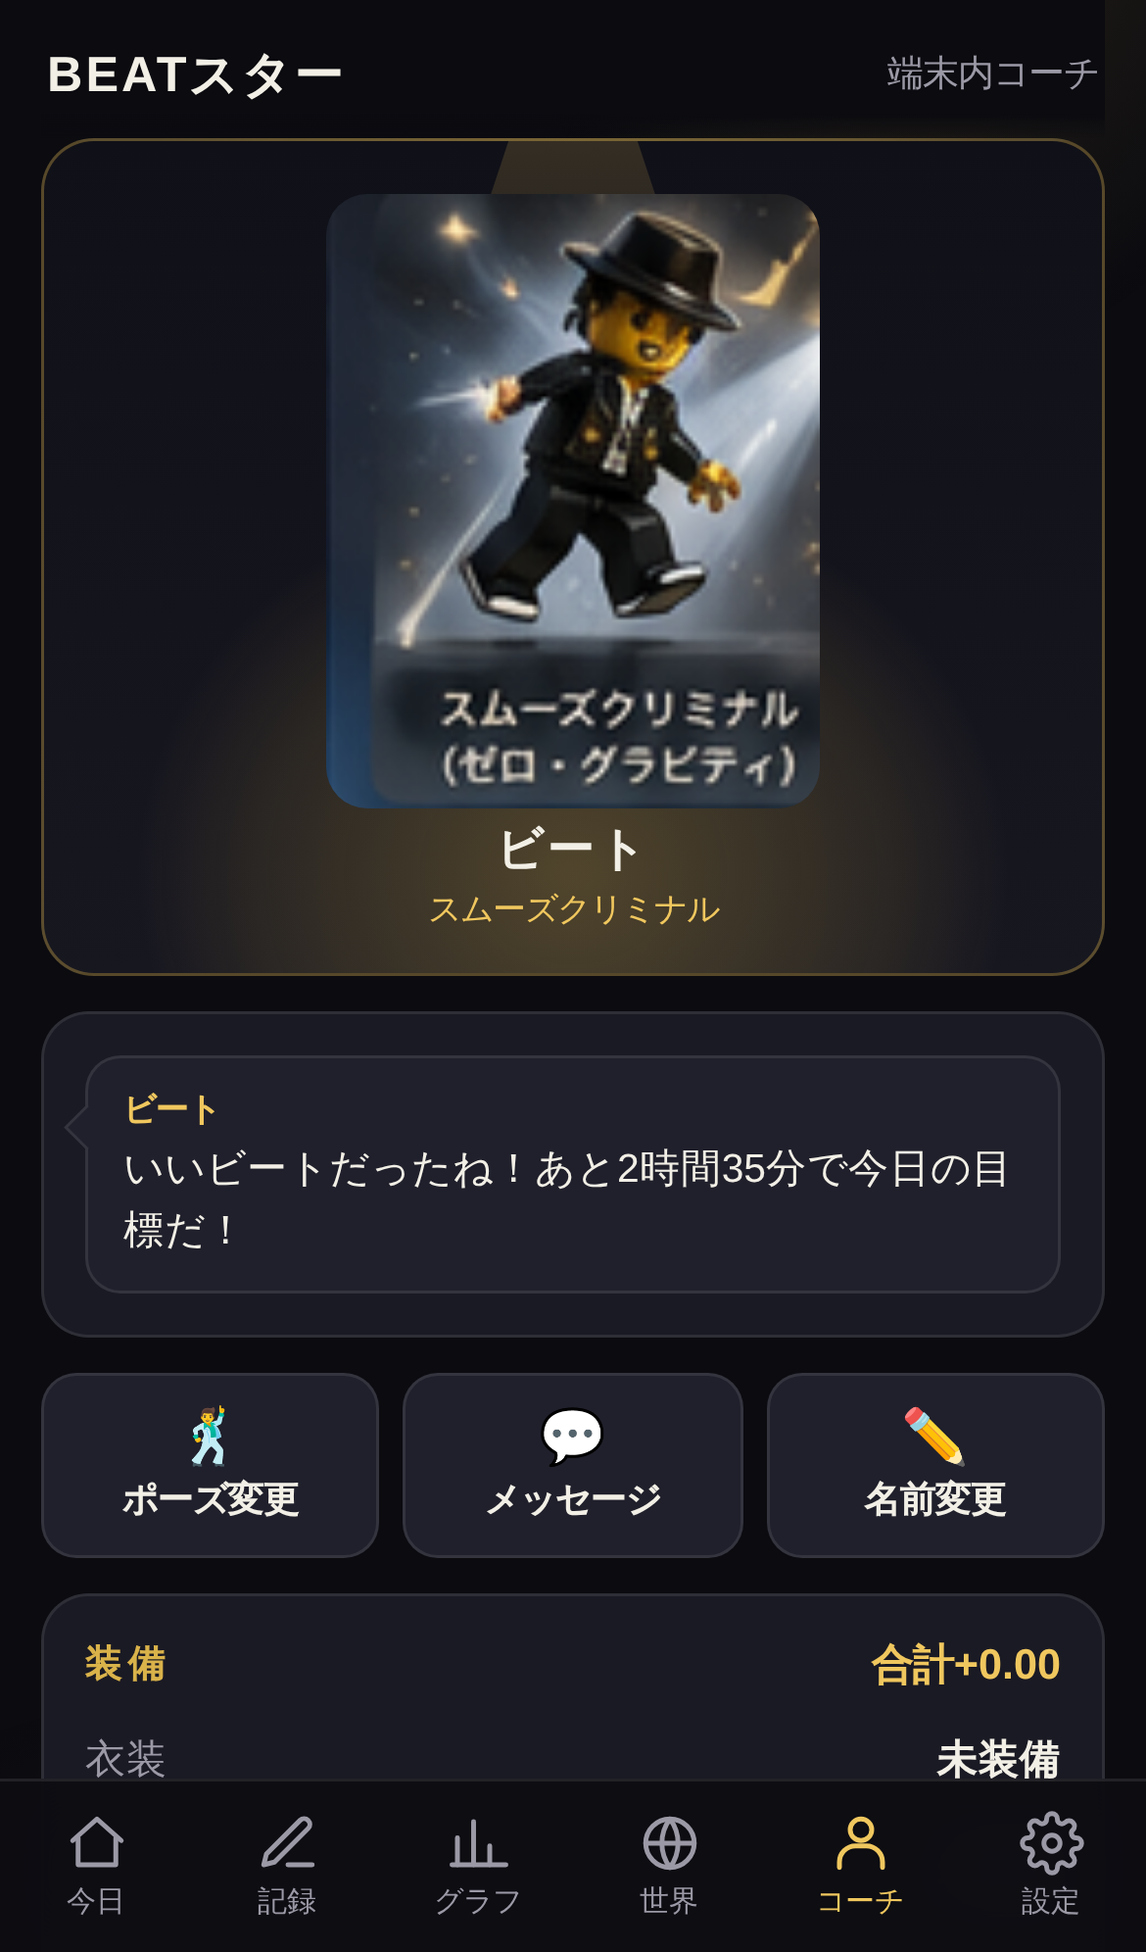
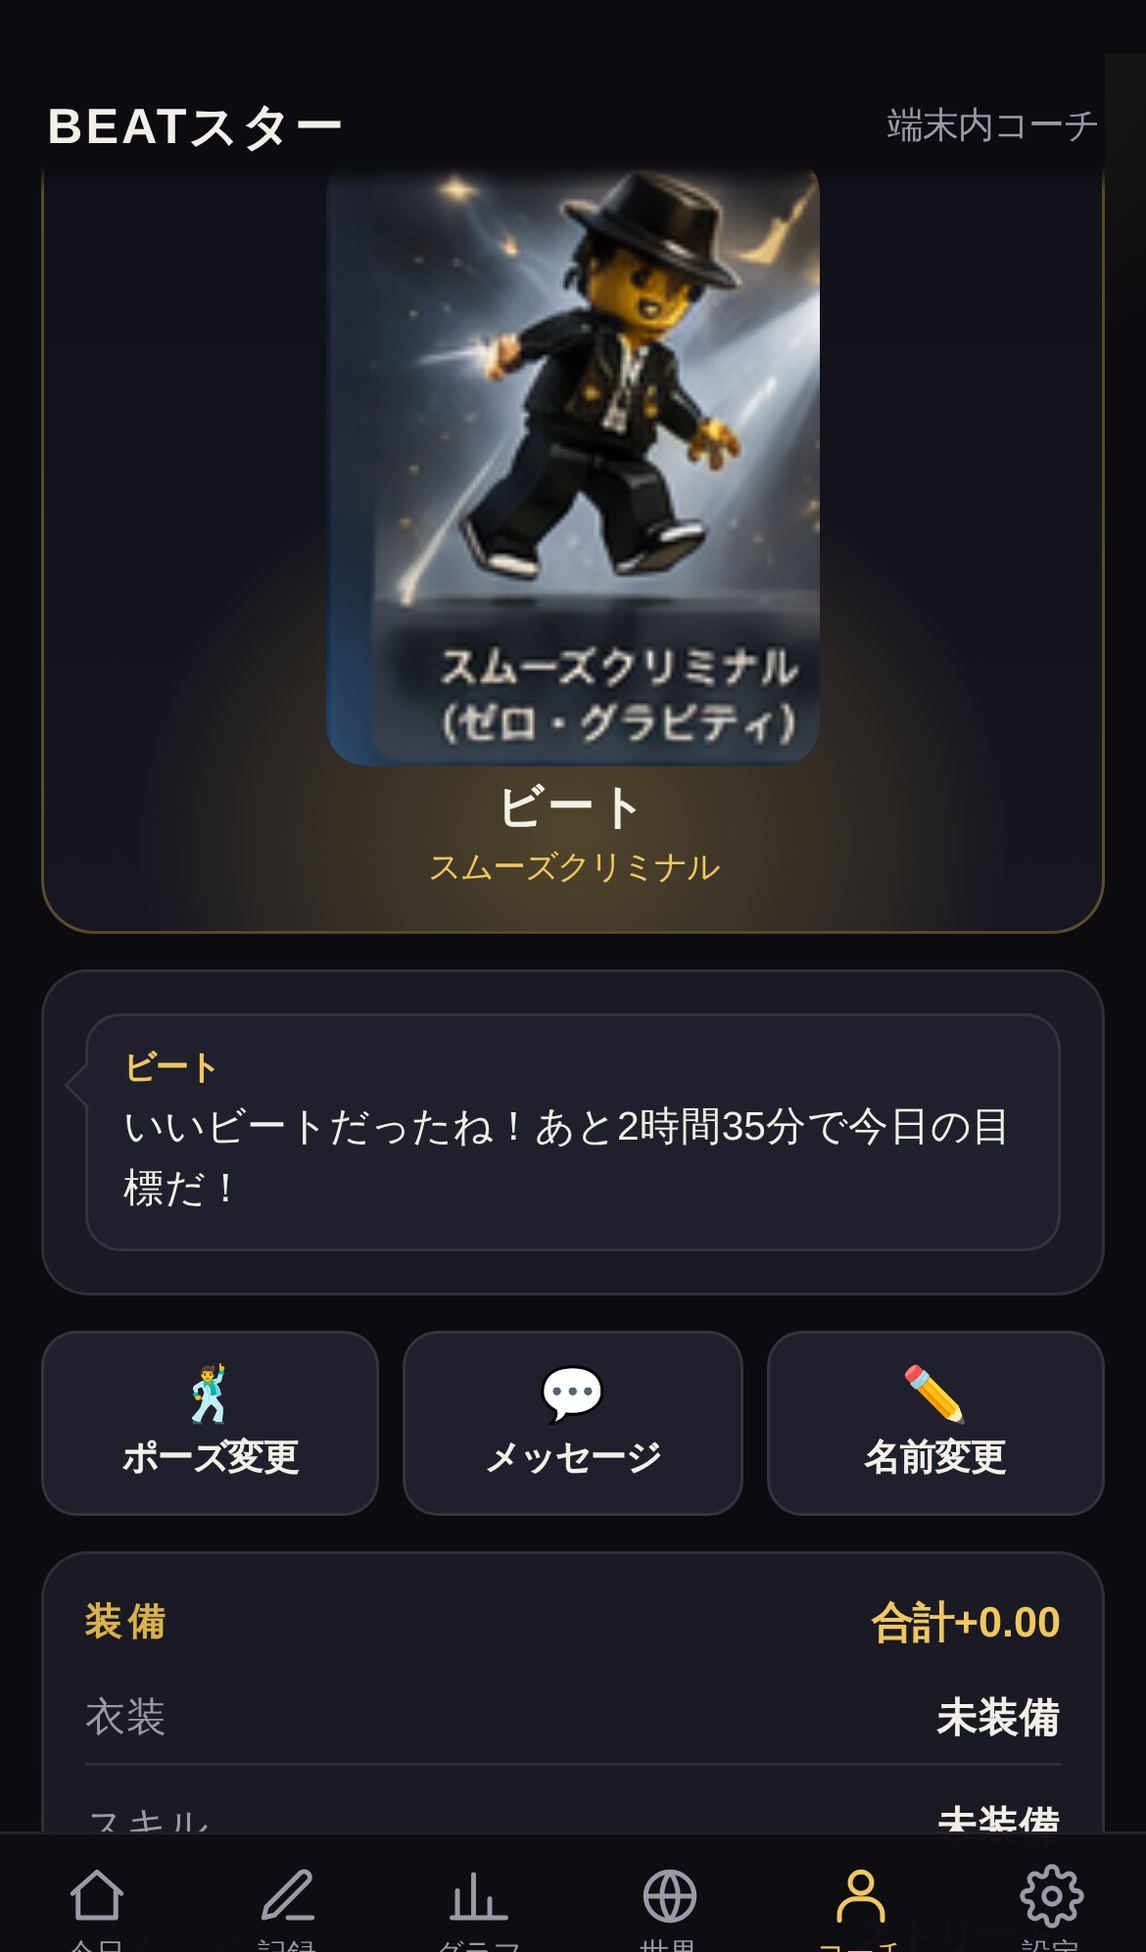
APP-461: コーチのパネルが画面外に開く不具合を修正し、不具合報告と更新バッジを追加
## 不具合: コーチの「ポーズ変更」「メッセージ」が反応しないように見える

親から「メッセージのところが何の入力もできない」「ポーズ変更ボタンも受け
付けない」との報告。公開版(main)で再現し、原因を実測で特定した。

  ポーズ変更ボタン   y = 467〜530  (画面の高さ 664px)
  押すと開くパネル   y = 834〜1379 ← 画面外

ボタンとイベントは正常に動いていた。パネルがボタンより下、装備カードと
ショップカードのさらに後ろに置かれているため、開いても画面の170px下で開き、
何も変わらないように見えていた。メッセージの入力欄も同じ理由で画面外にあり、
触れなかった。

対策として、パネルを開いたら scrollIntoView で画面内へ送る。
prefers-reduced-motion のときは即座に移動する。

  修正後: ポーズパネル y=29 / 入力欄 y=377 (いずれも画面内)

## 追加: 不具合を報告する(設定 → 🐞)

外部通信ゼロのため、アプリからは送信しない。状況が分かる定型文を組み立てて
クリップボードへコピーし、LINEやGitHubへ貼れるようにする。

自動で入る情報: アプリ版・発生日時・画面幅・ホーム画面から起動したか・端末・
記録の件数・保存容量。**学習内容と振り返りの本文は含めない**ことを画面にも
報告文にも明記した。

## 追加: アップデートのお知らせバッジ

新しい版が届くと、下部ナビの「設定」タブとサポート・ヘルプの項目に赤い点が
付く。更新すると消える。

ホーム画面アイコン自体へのバッジ(navigator.setAppBadge)は、使える環境でだけ
静かに付ける。iOSでは通知の許可が必要なため、こちらから許可は求めない。
許可が無い環境では何も起きない(try/catchで握りつぶす)。

## 試験

受入 175件 → 191件、単体 69件は変更なし。いずれも全合格。

新規16件には、パネルが画面内に入ること、ポーズと入力欄が実際にタップできる
こと(elementFromPointによる当たり判定)、報告文に版数・端末が自動で入ること、
本文を含めない旨が明記されること、赤い点の表示と消去を含む。

ver.4.1.1 → 4.1.2 (sw.js の CACHE も同時に更新)

Claude-Session: https://claude.ai/code/session_01UmQKhNPcQEL1E4Hkts66e5

diff --git a/js/app.js b/js/app.js
@@ -5,7 +5,7 @@
 
   /* アプリのバージョン。更新時はここと sw.js の CACHE を一緒に上げる。
    * 保存キー(KEY)は絶対に変えないこと(過去の記録が読めなくなるため)。 */
-  var APP_VERSION = '4.1.1';
+  var APP_VERSION = '4.1.2';
   /* リリース表示用(画面右上)。更新のたびに日付を上げる。
    * モデル名は「未記録」固定とする(実行時のモデル識別子を断定してリポジトリの
    * 成果物に書き出さない方針のため。推測での記載はしない)。 */
@@ -2036,15 +2036,31 @@
     renderBoostCard();
   }
 
+  /* 開いたパネルを画面内に送る(APP-461)。
+   * パネルはボタンより下、装備・ショップカードのさらに後ろに置かれているため、
+   * 画面の外で開いていた。ボタンを押しても何も変わらないように見え、
+   * 「ボタンが反応しない」「メッセージが入力できない」という不具合になっていた。 */
+  function revealPanel(el) {
+    if (!el || el.style.display === 'none') return;
+    var reduce = window.matchMedia && window.matchMedia('(prefers-reduced-motion: reduce)').matches;
+    try {
+      el.scrollIntoView({ behavior: reduce ? 'auto' : 'smooth', block: 'start' });
+    } catch (e) {
+      el.scrollIntoView(true);   // 古いブラウザ向け
+    }
+  }
+
   $('btn-pose').addEventListener('click', function () {
     var p = $('pose-panel');
     p.style.display = p.style.display === 'none' ? '' : 'none';
     $('chat-panel').style.display = 'none';
+    revealPanel(p);
   });
   $('btn-chat').addEventListener('click', function () {
     var p = $('chat-panel');
     p.style.display = p.style.display === 'none' ? '' : 'none';
     $('pose-panel').style.display = 'none';
+    revealPanel(p);
     if (p.style.display !== 'none') {
       renderChatLog();
       renderQuickAsks();
@@ -2302,6 +2318,7 @@
     if (panel === 'ai') return openAIPanel();
     if (panel === 'axis') return openAxisModal();
     if (panel === 'data') return openDataPanel();
+    if (panel === 'report') return openReportPanel();
     if (panel === 'about') return openAboutPanel();
   }
 
@@ -2636,6 +2653,97 @@
     };
   }
 
+  /* ================= 不具合の報告(APP-461) =================
+   * 外部通信ゼロのため、アプリから送信はしない。
+   * 状況が分かる定型文を組み立ててコピーし、親がLINEやGitHubへ貼れるようにする。 */
+
+  function buildReportText(userText) {
+    var lines = [];
+    lines.push('【IBUKI STUDY BEAT 不具合レポート】');
+    lines.push('');
+    lines.push('■ 何が起きたか');
+    lines.push(userText && userText.trim() ? userText.trim() : '(未記入)');
+    lines.push('');
+    lines.push('■ 環境(自動で入ります)');
+    lines.push('アプリ版: ver.' + APP_VERSION + ' (' + BUILD_DATE + ')');
+    lines.push('発生日時: ' + new Date().toLocaleString('ja-JP'));
+    lines.push('画面幅: ' + window.innerWidth + ' x ' + window.innerHeight);
+    lines.push('ホーム画面から起動: ' +
+      (window.matchMedia && window.matchMedia('(display-mode: standalone)').matches ? 'はい' : 'いいえ'));
+    lines.push('端末: ' + (navigator.userAgent || '不明').slice(0, 160));
+    lines.push('オフライン対応: ' + ('serviceWorker' in navigator ? '有効' : '無効'));
+    lines.push('');
+    lines.push('■ データの規模(中身は含みません)');
+    try {
+      lines.push('学習記録: ' + (state.records || []).filter(function (r) { return !r.deletedAt; }).length + '件');
+      lines.push('ニュース: ' + (state.news || []).length + '件');
+      lines.push('受験イベント: ' + (state.events || []).length + '件');
+      lines.push('科目: ' + (state.settings.subjects || []).length + '件');
+      lines.push('保存容量: 約' + Math.round((localStorage.getItem(KEY) || '').length / 1024) + ' KB');
+    } catch (e) {
+      lines.push('(データの読み取りに失敗しました)');
+    }
+    lines.push('');
+    lines.push('※ 学習内容・振り返りの本文は含めていません。');
+    return lines.join('\n');
+  }
+
+  function openReportPanel() {
+    openModal(
+      '<h3>不具合を報告する<button class="icon-btn" id="m-close">✕</button></h3>' +
+      '<div class="small" style="line-height:1.8;margin-bottom:10px">' +
+      'うまく動かないところを書いて「コピーする」を押すと、報告用の文章ができます。' +
+      'LINEやメールに貼って送ってね。<br>' +
+      '<b>学習の内容や振り返りの中身は入りません。</b>' +
+      '</div>' +
+      '<div class="field"><label>どこで、何が起きた?</label>' +
+      '<textarea id="rp-text" maxlength="500" rows="4" ' +
+      'placeholder="例: コーチのメッセージボタンを押しても何も出てこない"></textarea></div>' +
+      '<div class="field"><label>送られる内容(自動)</label>' +
+      '<pre id="rp-preview" class="report-preview"></pre></div>' +
+      '<button class="btn primary block" id="rp-copy">📋 コピーする</button>' +
+      '<div class="small" style="margin-top:10px;line-height:1.8">' +
+      'コピーしたら、LINEで送るか、GitHubの Issues に貼り付けてください。' +
+      '</div>'
+    );
+    $('m-close').onclick = closeModal;
+    function refresh() { $('rp-preview').textContent = buildReportText($('rp-text').value); }
+    $('rp-text').addEventListener('input', refresh);
+    refresh();
+    $('rp-copy').onclick = function () {
+      copyToClipboard(buildReportText($('rp-text').value)).then(function (okCopy) {
+        toast(okCopy ? 'コピーしたよ！LINEなどに貼り付けてね' : 'コピーできなかった。長押しで選んでコピーしてね', !okCopy);
+      });
+    };
+  }
+
+  /* ================= アップデートのお知らせ(APP-461) =================
+   * 新しい版が届いたら、設定タブに赤い点を出す。
+   * ホーム画面のアイコン自体へのバッジは、iOSでは通知の許可が要るため
+   * 使える場合だけ静かに付ける(許可は求めない)。 */
+
+  var updateWaiting = false;
+
+  function setUpdateBadge(on) {
+    updateWaiting = !!on;
+    var btn = document.querySelector('.nav-btn[data-screen="settings"]');
+    if (btn) btn.classList.toggle('has-update', updateWaiting);
+    var item = document.querySelector('.settings-item[data-panel="about"] .dot');
+    if (item) item.remove();
+    if (updateWaiting) {
+      var about = document.querySelector('.settings-item[data-panel="about"]');
+      if (about) {
+        var d = document.createElement('span');
+        d.className = 'dot';
+        about.insertBefore(d, about.querySelector('.chev'));
+      }
+    }
+    try {
+      if (updateWaiting && navigator.setAppBadge) navigator.setAppBadge(1);
+      else if (navigator.clearAppBadge) navigator.clearAppBadge();
+    } catch (e) { /* 許可が無い環境では何もしない */ }
+  }
+
   function openAboutPanel() {
     openModal(
       '<h3>サポート・ヘルプ<button class="icon-btn" id="m-close">✕</button></h3>' +
@@ -2708,6 +2816,12 @@
   }
 
   /* --- アップデート検知(Service Worker) --- */
+  var pendingUpdateWorker = null;
+
+  /* 受け入れ試験から更新バッジの表示を確認するための入口。
+   * Service Workerの更新は試験環境で再現しづらいため、ここだけ公開する。 */
+  window.__isbSetUpdateBadge = setUpdateBadge;
+
   function setupServiceWorker() {
     if (!('serviceWorker' in navigator) || location.protocol !== 'https:') return;
 
@@ -2722,6 +2836,8 @@
     navigator.serviceWorker.register('sw.js').then(function (reg) {
       function offerUpdate(worker) {
         if (!worker) return;
+        setUpdateBadge(true);
+        pendingUpdateWorker = worker;
         showCenterMessage({
           img: 'cele_streak7.png',
           title: '新しいバージョンがあるよ！',
@@ -2730,6 +2846,7 @@
           buttonLabel: '🔄 いますぐ更新する',
           onConfirm: function () {
             toast('更新中…少し待ってね');
+            setUpdateBadge(false);
             worker.postMessage({ type: 'SKIP_WAITING' });
           }
         });

diff --git a/index.html b/index.html
@@ -256,6 +256,7 @@
       <button class="settings-item" data-panel="ai"><span class="ico">🤖</span>AI連携設定<span class="chev">›</span></button>
       <button class="settings-item" data-panel="axis"><span class="ico">📈</span>グラフ・Y軸設定<span class="chev">›</span></button>
       <button class="settings-item" data-panel="data"><span class="ico">💾</span>データ管理<span class="chev">›</span></button>
+      <button class="settings-item" data-panel="report"><span class="ico">🐞</span>不具合を報告する<span class="chev">›</span></button>
       <button class="settings-item" data-panel="about"><span class="ico">❓</span>サポート・ヘルプ<span class="chev">›</span></button>
     </div>
   </section>
@@ -280,7 +281,7 @@
       <svg viewBox="0 0 24 24"><circle cx="12" cy="7" r="4"/><path d="M4 21v-2a6 6 0 016-6h4a6 6 0 016 6v2"/></svg>コーチ
     </button>
     <button class="nav-btn" data-screen="settings">
-      <svg viewBox="0 0 24 24"><circle cx="12" cy="12" r="3"/><path d="M19.4 15a1.7 1.7 0 00.34 1.87l.06.06a2 2 0 11-2.83 2.83l-.06-.06a1.7 1.7 0 00-1.87-.34 1.7 1.7 0 00-1 1.55V21a2 2 0 11-4 0v-.09a1.7 1.7 0 00-1-1.55 1.7 1.7 0 00-1.87.34l-.06.06a2 2 0 11-2.83-2.83l.06-.06a1.7 1.7 0 00.34-1.87 1.7 1.7 0 00-1.55-1H3a2 2 0 110-4h.09a1.7 1.7 0 001.55-1 1.7 1.7 0 00-.34-1.87l-.06-.06a2 2 0 112.83-2.83l.06.06a1.7 1.7 0 001.87.34h0a1.7 1.7 0 001-1.55V3a2 2 0 114 0v.09a1.7 1.7 0 001 1.55h0a1.7 1.7 0 001.87-.34l.06-.06a2 2 0 112.83 2.83l-.06.06a1.7 1.7 0 00-.34 1.87v0a1.7 1.7 0 001.55 1H21a2 2 0 110 4h-.09a1.7 1.7 0 00-1.55 1z"/></svg>設定
+      <svg viewBox="0 0 24 24"><circle cx="12" cy="12" r="3"/><path d="M19.4 15a1.7 1.7 0 00.34 1.87l.06.06a2 2 0 11-2.83 2.83l-.06-.06a1.7 1.7 0 00-1.87-.34 1.7 1.7 0 00-1 1.55V21a2 2 0 11-4 0v-.09a1.7 1.7 0 00-1-1.55 1.7 1.7 0 00-1.87.34l-.06.06a2 2 0 11-2.83-2.83l.06-.06a1.7 1.7 0 00.34-1.87 1.7 1.7 0 00-1.55-1H3a2 2 0 110-4h.09a1.7 1.7 0 001.55-1 1.7 1.7 0 00-.34-1.87l-.06-.06a2 2 0 112.83-2.83l.06.06a1.7 1.7 0 001.87.34h0a1.7 1.7 0 001-1.55V3a2 2 0 114 0v.09a1.7 1.7 0 001 1.55h0a1.7 1.7 0 001.87-.34l.06-.06a2 2 0 112.83 2.83l-.06.06a1.7 1.7 0 00-.34 1.87v0a1.7 1.7 0 001.55 1H21a2 2 0 110 4h-.09a1.7 1.7 0 00-1.55 1z"/></svg>設定<span class="dot"></span>
     </button>
   </div>
 </nav>

diff --git a/css/app.css b/css/app.css
@@ -151,6 +151,25 @@ input[type="color"] { padding: 2px; width: 44px; min-width: 44px; height: 44px; 
 }
 .nav-btn svg { width: 22px; height: 22px; fill: none; stroke: currentColor; stroke-width: 1.8; stroke-linecap: round; stroke-linejoin: round; }
 .nav-btn.active { color: var(--gold-bright); }
+/* アップデートが届いたことを示す赤い点(APP-461) */
+.nav-btn { position: relative; }
+.nav-btn .dot {
+  position: absolute; top: 8px; left: 50%; margin-left: 6px;
+  width: 9px; height: 9px; border-radius: 50%;
+  background: #E8604C; border: 1.5px solid rgba(13, 13, 18, 0.96);
+  display: none;
+}
+.nav-btn.has-update .dot { display: block; }
+.report-preview {
+  background: var(--panel-2, #1b1b25); border: 1px solid var(--line);
+  border-radius: 8px; padding: 10px; font-size: 0.68rem; line-height: 1.6;
+  max-height: 180px; overflow: auto; white-space: pre-wrap; word-break: break-all;
+  color: var(--dim); margin: 0; -webkit-overflow-scrolling: touch;
+}
+.settings-item .dot {
+  width: 9px; height: 9px; border-radius: 50%; background: #E8604C;
+  display: inline-block; margin-left: 6px; vertical-align: middle;
+}
 
 /* ---------- キャラクター(BEATスター) — 確定デザインの画像 ---------- */
 .char-img {

diff --git a/js/manual.js b/js/manual.js
@@ -28,6 +28,8 @@
     '',
     '## 記録画面',
     '・日付を選べば過去の分も後から記録できる。学習種別を「テスト」にすると得点・満点欄が出る。',
+    '・うまく動かないときは 設定 →「不具合を報告する」。状況と端末の情報が入った報告文ができるので、コピーしてLINEなどで送る。学習内容の本文は入らない。',
+    '・新しいバージョンが届くと、下の「設定」タブに赤い点が付く。',
     '・一覧の✏で編集、🗑で削除。削除直後に出る「元に戻す」ですぐ取り消せる。',
     '・右上のごみ箱アイコンから、削除済みの記録を復元または完全削除できる。',
     '・実績時間が長すぎる、得点が満点超え、内容が空、などは警告が出て保存されない。',

diff --git a/sw.js b/sw.js
@@ -1,5 +1,5 @@
 /* IBUKI STUDY BEAT — Service Worker (オフライン対応) */
-var CACHE = 'isb-v4.1.1';
+var CACHE = 'isb-v4.1.2';
 var ASSETS = [
   './',
   './index.html',

diff --git a/TEST_RESULTS.md b/TEST_RESULTS.md
@@ -2,7 +2,7 @@
 
 実行日: 2026-08-10 / 環境: Playwright + Chromium (iPhone 13 viewport)
 
-**175/175 合格**
+**191/191 合格**
 
 | 結果 | 項目 | 詳細 |
 |---|---|---|
@@ -42,17 +42,17 @@
 | ✅ | 正常JSONの読み込みで復元 |  |
 | ✅ | 確認語なしでは消去されない |  |
 | ✅ | 二段階確認後に全消去 |  |
-| ✅ | 画面上にソフトバージョンを表示 | ver. 4.1.1 |
+| ✅ | 画面上にソフトバージョンを表示 | ver. 4.1.2 |
 | ✅ | 画面右上に更新日が表示される | 更新日 2026-08-10 ・ 更新 Claude Code ・ モデル 未記録 |
 | ✅ | 画面右上に更新したAI(Claude Code)が表示される | 更新日 2026-08-10 ・ 更新 Claude Code ・ モデル 未記録 |
 | ✅ | 画面右上にモデル欄が表示される(未記録も許容) | 更新日 2026-08-10 ・ 更新 Claude Code ・ モデル 未記録 |
 | ✅ | 320px幅でもリリース表示が横スクロールを起こさない |  |
 | ✅ | アプリを開くと画面中央にメッセージを表示 |  |
 | ✅ | メッセージが画面中央に配置される | dx=0.0, dy=0.0 |
-| ✅ | 中央メッセージにもバージョンを表示 | ver. 4.1.1 |
+| ✅ | 中央メッセージにもバージョンを表示 | ver. 4.1.2 |
 | ✅ | ボタンでメッセージを閉じられる |  |
 | ✅ | あいさつは自動で閉じる |  |
-| ✅ | 更新後の初回起動で「新しくなった」と中央に表示 |  アプリが新しくなったよ！ ver. 3.0.0 → 4.1.1 に更新できたよ。記録はぜんぶそのまま残っているから安心してね。 今日も始める ▶ ver. 4.1.1  |
+| ✅ | 更新後の初回起動で「新しくなった」と中央に表示 |  アプリが新しくなったよ！ ver. 3.0.0 → 4.1.2 に更新できたよ。記録はぜんぶそのまま残っているから安心してね。 今日も始める ▶ ver. 4.1.2  |
 | ✅ | 更新メッセージで記録が残ることを明記 |  |
 | ✅ | バージョン更新をまたいでも記録は保持される | 1 → 1 |
 | ✅ | SWが「SKIP_WAITING」受信で更新へ切り替わる |  |
@@ -176,6 +176,25 @@
 | ✅ | 14-15 長い学習種別が枠内に収まる(390px) |  |
 | ✅ | 14-16 長い学習種別が枠内に収まる(320px) |  |
 | ✅ | 14-17 320px幅の記録画面で横スクロールが発生しない |  |
+| ✅ | 15-1 ポーズ変更を押すとパネルが開く |  |
+| ✅ | 15-2 ポーズパネルが画面内に入る(押しても何も起きないように見えない) | {"top":29,"bottom":574,"vh":664,"visible":true} |
+| ✅ | 15-3 ポーズを実際にタップできる |  |
+| ✅ | 15-4 メッセージを押すと入力欄が開く |  |
+| ✅ | 15-5 入力欄が画面内に入る | {"top":377,"bottom":421,"vh":664,"visible":true} |
+| ✅ | 15-6 入力欄が他の要素に隠れていない |  |
+| ✅ | 15-7 メッセージを送信できる |  |
+| ✅ | 15-8 報告画面に版数が自動で入る | 【IBUKI STUDY BEAT 不具合レポート】
+
+■ 何が起きたか
+(未記 |
+| ✅ | 15-9 端末と画面幅が自動で入る |  |
+| ✅ | 15-10 学習内容の本文は含めない旨を明記 |  |
+| ✅ | 15-11 書いた内容が報告文に反映される |  |
+| ✅ | 15-12 コピー操作でエラーにならない |  |
+| ✅ | 15-13 通常時は設定タブに赤い点が出ない | nav-btn active |
+| ✅ | 15-14 更新が届くと設定タブに赤い点が出る | nav-btn active has-update |
+| ✅ | 15-15 赤い点が実際に表示される |  |
+| ✅ | 15-16 更新すると赤い点が消える | nav-btn active |
 | ✅ | コーチ: 発言保存+端末内ロジックの返答 |  |
 | ✅ | 320px幅で横スクロールが発生しない |  |
 | ✅ | 320px幅で世界タブも横スクロールが発生しない(ジャンル・BPチップ含む) |  |
